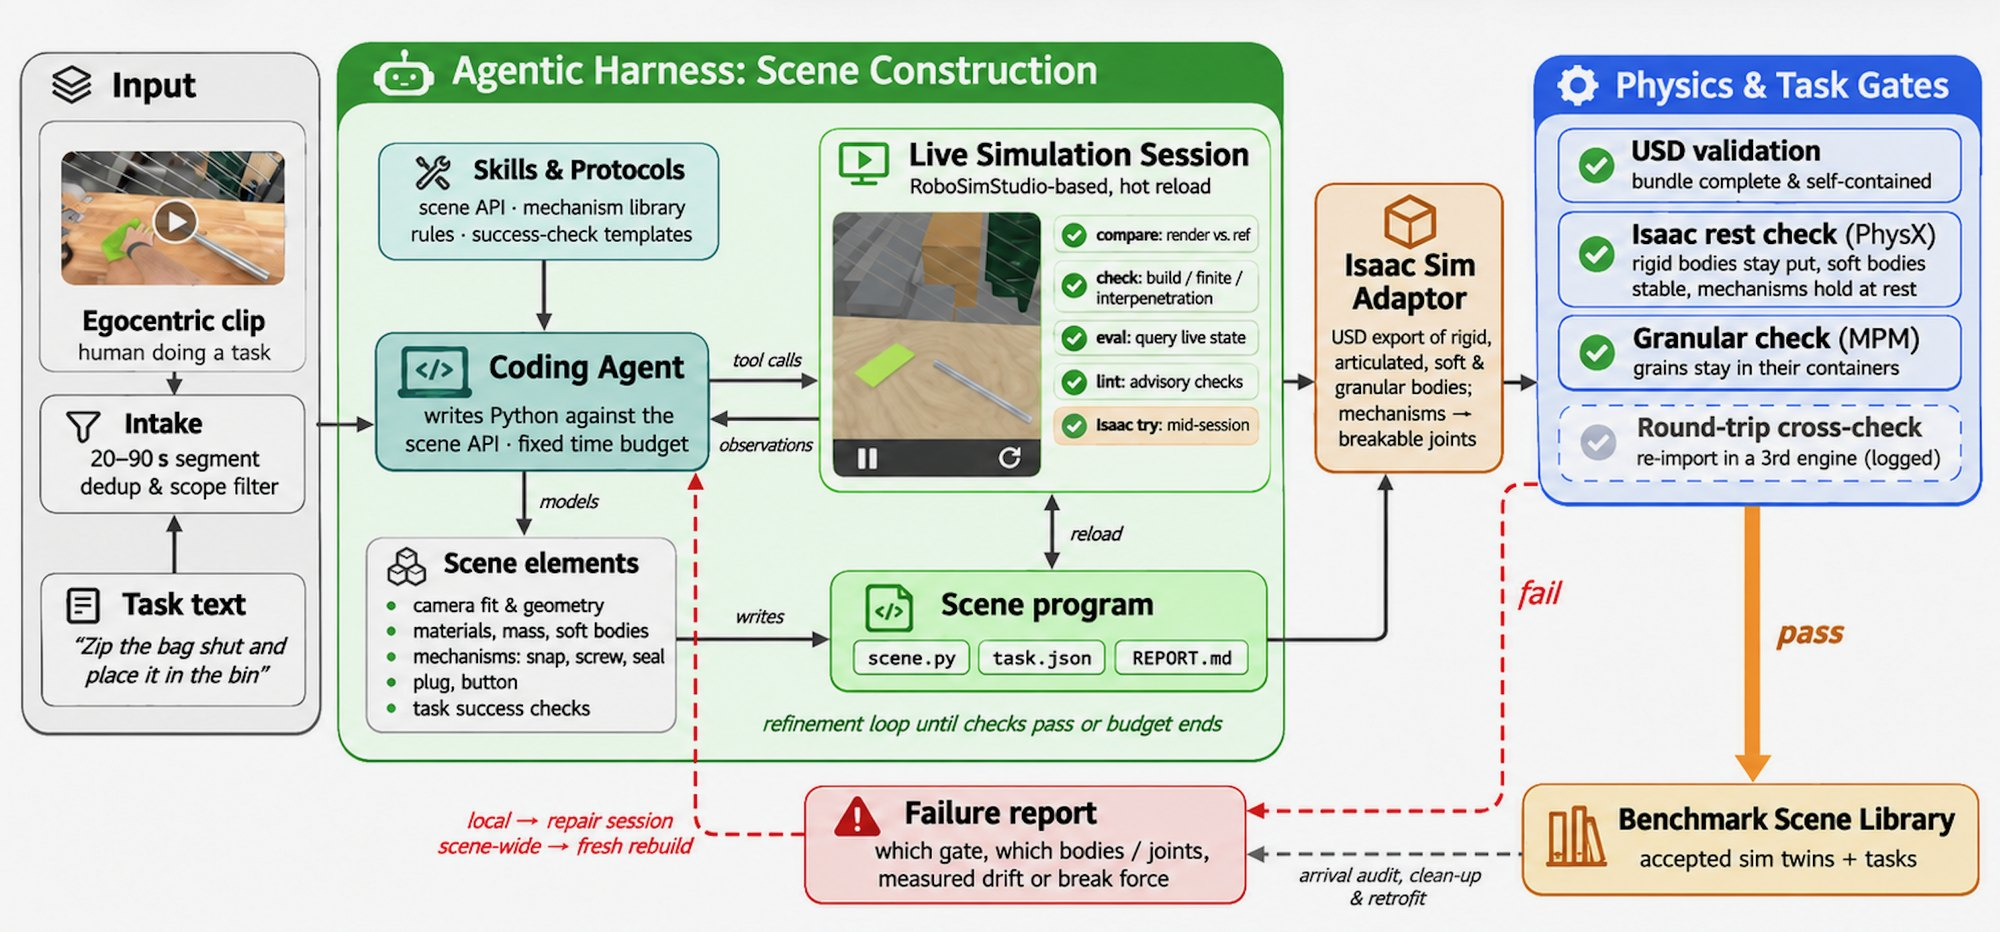
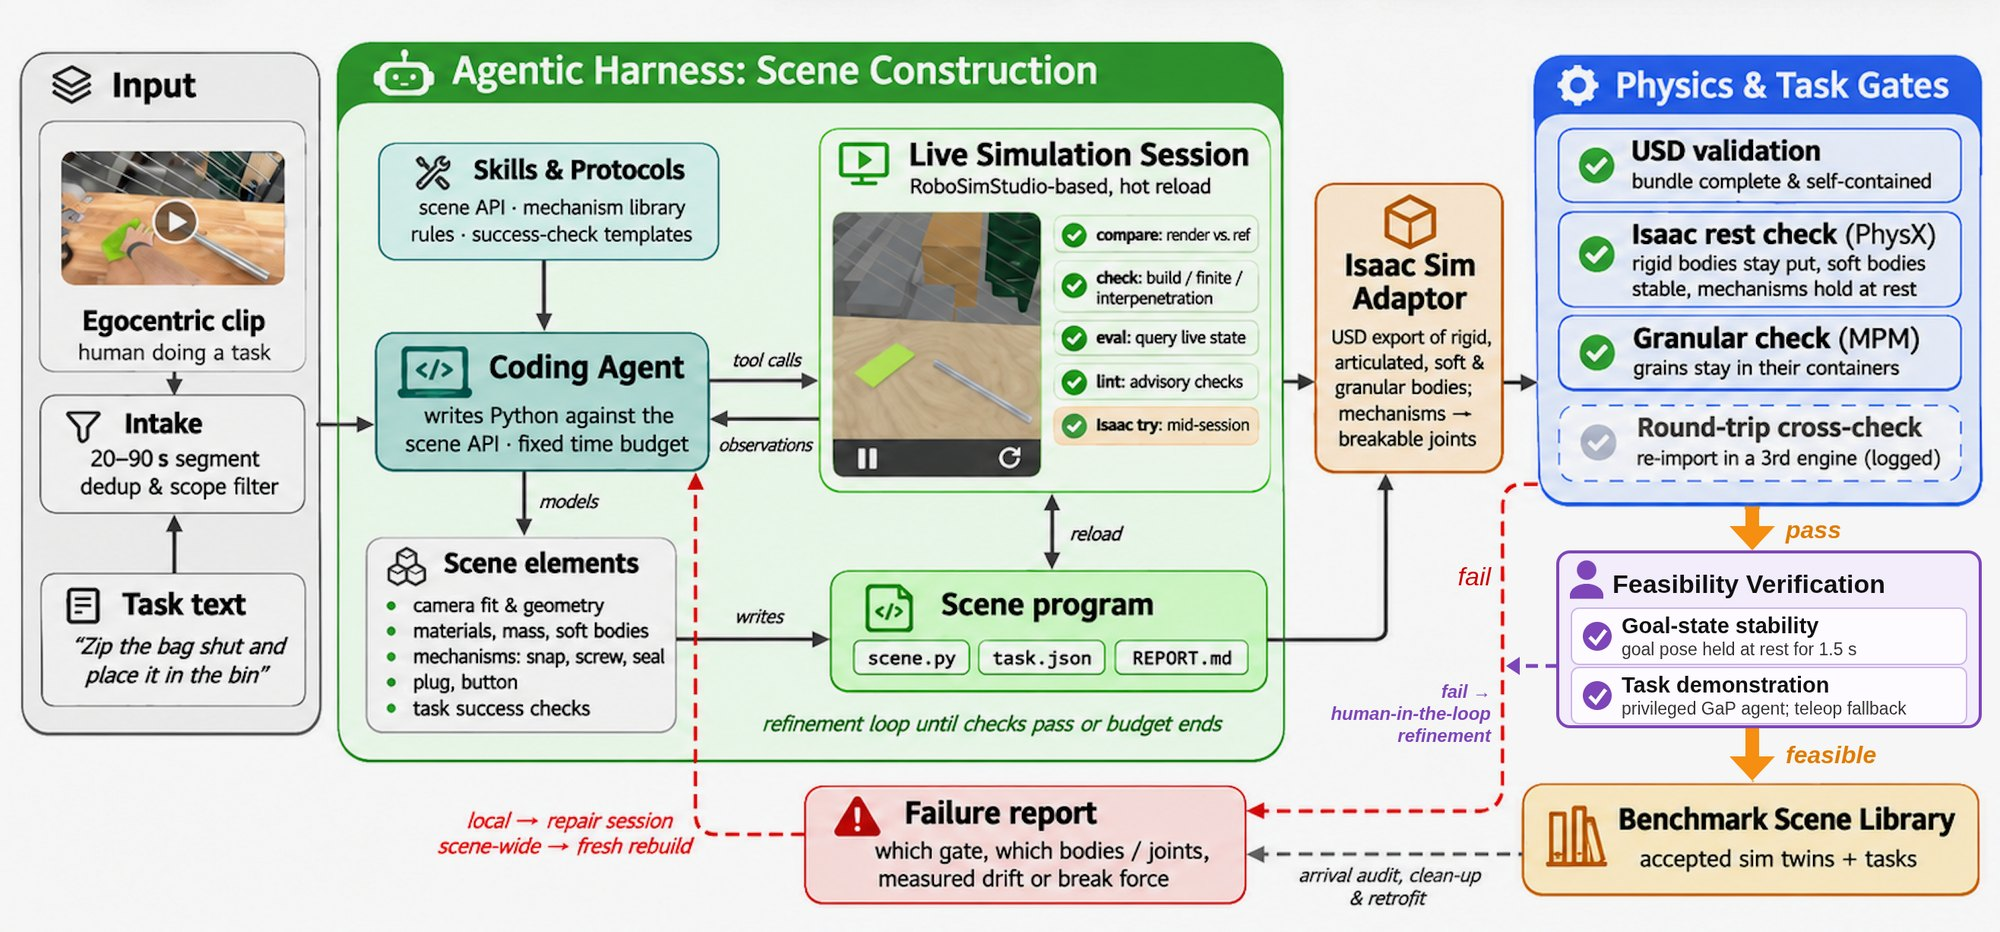
Update GenBench-∞ page to the revised paper: feasibility verification, failure modes

Changed region(s): [[0.744, 0.5601, 0.992, 0.8401], [0.651, 0.7157, 0.744, 0.809], [0.713, 0.5912, 0.744, 0.6223]]

diff --git a/genbench/index.html b/genbench/index.html
@@ -187,11 +187,11 @@
   <div class="wrap wide">
     <figure>
       <img src="static/img/fig2_pipeline.jpg" alt="Agentic simulation construction pipeline" width="2000" height="932" loading="lazy">
-      <figcaption>A coding agent turns an egocentric clip and its task text into a scene program, refining it in a live simulation session against renders of the clip and physics checks. The scene is exported to Isaac Sim through our adaptor and must pass physics and task-readiness gates in that independent engine. Failures return to the agent as a written report, which triggers a targeted repair or a fresh rebuild.</figcaption>
+      <figcaption>A coding agent turns an egocentric clip and its task text into a scene program, refining it in a live simulation session against renders of the clip and physics checks. The scene is exported to Isaac Sim through our adaptor and must pass physics and task-readiness gates there; failures return to the agent as a written report, which triggers a targeted repair or a fresh rebuild. Scenes that pass then undergo feasibility verification: the goal state must stay stable at rest, and task completion must be demonstrated by a privileged GaP agent or, failing that, by teleoperation. Scenes that fail are refined by the agent with a human in the loop before entering the benchmark.</figcaption>
     </figure>
   </div>
   <div class="wrap">
-    <div class="cards3">
+    <div class="cards2">
       <div class="card">
         <h3>Scenes as grounded programs</h3>
         <p>Each 20&ndash;90&nbsp;s clip becomes a <code>scene.py</code> plus a task file of success conditions. The agent works in a live session that reloads on every save, compares renders from a camera fitted to the clip against the video, and steps the physics to catch instability, interpenetration and drift.</p>
@@ -201,14 +201,18 @@
         <p>Mechanism primitives (snaps, seated screws, zippers, plugs, buttons) each carry a break force and a state check. Three rules: textures carry only an object's own print, at least one success condition is false as built, and every departure from the clip is written into a report.</p>
       </div>
       <div class="card">
-        <h3>Acceptance independent of the builder</h3>
-        <p>A scene counts only if it holds in an engine it was not built in. In Isaac Sim, rigid bodies must stay within a few millimetres at rest, soft bodies must neither fall through nor fly apart, every mechanism must hold at three times its load, and granular material (MPM) must stay in its container.</p>
+        <h3>Physical acceptance in Isaac Sim</h3>
+        <p>The adaptor exports each scene as a self-contained USD bundle, keeping each deformable's material and turning mechanisms into breakable joints. At rest for 1.5&nbsp;s, rigid bodies must stay within a few millimetres, soft bodies must neither fall through nor fly apart, every mechanism must hold at three times its load, and granular material (MPM) must stay in its container.</p>
+      </div>
+      <div class="card">
+        <h3>Feasibility verification</h3>
+        <p>Every scene must be shown to be solvable. The task objects are placed in their goal state to check reachability and held at rest for 1.5&nbsp;s to check stability; then a privileged agent with full state information uses GaP to complete the task, with teleoperation as the fallback. Scenes that fail either check are refined with a human in the loop and tested again.</p>
       </div>
     </div>
     <div class="kpis">
       <div><b>94.1%</b><span>of attempted scenes accepted</span></div>
       <div><b>65 min</b><span>median build time per scene</span></div>
-      <div><b>~1.3</b><span>GPU-slot hours per scene</span></div>
+      <div><b>~1.3</b><span>GPU-slot hours per scene (vGPU-32GB)</span></div>
       <div><b>23 / 24</b><span>random scenes pass again when re-exported on another machine</span></div>
     </div>
   </div>
@@ -254,7 +258,7 @@
             <tr><td>Long (295)</td><td>0 (0.0%)</td><td>0.5</td><td>0 (0.0%)</td><td>1.4</td></tr>
           </tbody>
         </table>
-        <p class="note">Short, medium and long tasks name 1&ndash;2, 3&ndash;4 and 5+ sub-goals. Both models succeed on 26 scenes, only Astra on 57, only Dream-1 on 6, neither on 911. On the 26 shared successes, Astra averages 7.5&nbsp;min and $2.28 of API cost per task; Dream-1 averages 5.1&nbsp;min and $0.06, 38&times; cheaper.</p>
+        <p class="note">Short, medium and long tasks name 1&ndash;2, 3&ndash;4 and 5+ sub-goals. Both models succeed on 26 scenes, only Astra on 57, only Dream-1 on 6, neither on 911. On the 26 shared successes, Astra averages 8.6&nbsp;min and $2.28 of API cost per task; Dream-1 averages 3.7&nbsp;min and $0.06, 38&times; cheaper.</p>
       </div>
       <div class="chart skill">
         <h4>Scenes completed by skill <small>(% of scenes with that skill)</small></h4>
@@ -273,6 +277,34 @@
         </div>
       </div>
     </div>
+
+    <h3 class="sub">How policies fail</h3>
+    <p class="intro">Failures usually happen at the first step of a task. Every counted trial that did not succeed is assigned one primary failure mode from the voting reviewers' written reasons and the frames they saw. Dream-1 mostly never makes useful contact with the task objects; GPT-6 Astra's failures spread across knocking objects over, leaving mechanisms unoperated, stopping partway and not releasing.</p>
+    <div class="two fail">
+      <div class="chart skill">
+        <h4>Failure modes <small>(% of each model's failed trials)</small></h4>
+        <div class="legend"><span class="d">Dream-1 (968 failed)</span><span class="a">GPT-6 Astra (917 failed)</span></div>
+        <div class="pairs" style="--scale:70">
+          <div class="pair"><span>No contact</span><div><i class="d" style="--p:66.4"></i><b>66%</b></div><div><i class="a" style="--p:35.0"></i><b>35%</b></div></div>
+          <div class="pair"><span>Wrong final pose</span><div><i class="d" style="--p:11.5"></i><b>11%</b></div><div><i class="a" style="--p:12.1"></i><b>12%</b></div></div>
+          <div class="pair"><span>Knocked over</span><div><i class="d" style="--p:5.0"></i><b>5%</b></div><div><i class="a" style="--p:15.0"></i><b>15%</b></div></div>
+          <div class="pair"><span>Mechanism not operated</span><div><i class="d" style="--p:6.3"></i><b>6%</b></div><div><i class="a" style="--p:14.7"></i><b>15%</b></div></div>
+          <div class="pair"><span>Stopped partway</span><div><i class="d" style="--p:3.9"></i><b>4%</b></div><div><i class="a" style="--p:11.0"></i><b>11%</b></div></div>
+          <div class="pair"><span>Not released</span><div><i class="d" style="--p:0.8"></i><b>1%</b></div><div><i class="a" style="--p:7.7"></i><b>8%</b></div></div>
+          <div class="pair"><span>Declined instruction</span><div><i class="d" style="--p:2.9"></i><b>3%</b></div><div><i class="a" style="--p:0"></i><b>0%</b></div></div>
+          <div class="pair"><span>Scorer undecided</span><div><i class="d" style="--p:3.2"></i><b>3%</b></div><div><i class="a" style="--p:4.3"></i><b>4%</b></div></div>
+        </div>
+      </div>
+      <div class="failgrid">
+        <div class="fx"><div class="fp"><img src="static/img/fail/a_start.jpg" alt="" loading="lazy"><img src="static/img/fail/a_final.jpg" alt="" loading="lazy"></div><p><b>No contact.</b> Dream-1: pack pencils into cartons</p></div>
+        <div class="fx"><div class="fp"><img src="static/img/fail/b_start.jpg" alt="" loading="lazy"><img src="static/img/fail/b_final.jpg" alt="" loading="lazy"></div><p><b>Wrong final pose.</b> GPT-6 Astra: bottle upright in bowl</p></div>
+        <div class="fx"><div class="fp"><img src="static/img/fail/c_start.jpg" alt="" loading="lazy"><img src="static/img/fail/c_final.jpg" alt="" loading="lazy"></div><p><b>Not released.</b> GPT-6 Astra: plug adapter into outlet</p></div>
+        <div class="fx"><div class="fp"><img src="static/img/fail/d_start.jpg" alt="" loading="lazy"><img src="static/img/fail/d_final.jpg" alt="" loading="lazy"></div><p><b>Mechanism not operated.</b> GPT-6 Astra: tighten cover bolts</p></div>
+        <div class="fx"><div class="fp"><img src="static/img/fail/e_start.jpg" alt="" loading="lazy"><img src="static/img/fail/e_final.jpg" alt="" loading="lazy"></div><p><b>Knocked over.</b> Dream-1: disassemble tray table</p></div>
+        <div class="fx"><div class="fp"><img src="static/img/fail/f_start.jpg" alt="" loading="lazy"><img src="static/img/fail/f_final.jpg" alt="" loading="lazy"></div><p><b>Stopped partway.</b> Dream-1: six flange parts into bin</p></div>
+      </div>
+    </div>
+    <p class="note">Each example shows the first and final frames the voting reviewers saw for one trial. Gemini Argon 4 assigns the mode; one GPT-6 Astra failure (a violated hand-use constraint) fits none of the modes and is omitted.</p>
 
     <h3 class="sub">50-scene benchmark: six systems, four embodiments</h3>
     <p class="intro">Tasks simplify the source activity while keeping its manipulation requirements; an activity that transfers six eggs, for example, becomes transferring one egg from the sink into the tray. LLM systems act through the Nomad interface; Dream-1, &pi;<sub>0.5</sub> and MolmoAct2 use their own adapters. A completion counts only when simulator predicates pass and visual review confirms the goal.</p>
@@ -348,7 +380,7 @@
           <div><b>0.81</b><span>Pearson <i>r</i>, binary success, both policies pooled</span></div>
           <div><b>0.74</b><span>Pearson <i>r</i>, milestone completion, pooled</span></div>
         </div>
-        <p class="body">Simulation preserves Dream-1's higher aggregate score and tracks it closely (64.7% vs. 69.3%), but understates GPT-6 Astra's (22.0% vs. 49.3%) and does not reproduce per-task scores uniformly. Camera matching is approximate and contact physics remain unqualified for wiping, cabinet manipulation and packing, so these five-task comparisons are descriptive.</p>
+        <p class="body">Simulation preserves Dream-1's higher aggregate score and tracks it closely (64.7% vs. 69.3%), but understates GPT-6 Astra's (22.0% vs. 49.3%) and does not reproduce per-task scores uniformly. Milestones are judged by the operator for real trials and by the agentic voters for simulated ones. These five-task comparisons are descriptive: differing conditions and contact and controller limitations preclude attributing the gaps solely to the policies.</p>
       </div>
       <figure class="tight">
         <img src="static/img/fig5_cabinet.jpg" alt="Cabinet manipulation in the real world and in simulation" width="1100" height="1208" loading="lazy">

diff --git a/genbench/static/style.css b/genbench/static/style.css
@@ -130,6 +130,16 @@ h4 small { font-weight: 500; color: var(--mute); }
 .cards3 { display: grid; grid-template-columns: repeat(3, 1fr); gap: 18px; margin-top: 32px; }
 .card { background: #fff; border: 1px solid var(--line); border-radius: 14px; padding: 20px 20px 16px; }
 .card p { margin: 0; font-size: 14.5px; color: var(--ink2); }
+.cards2 { display: grid; grid-template-columns: repeat(2, 1fr); gap: 18px; margin-top: 32px; }
+.cards2 > * { min-width: 0; }
+
+.failgrid { display: grid; grid-template-columns: repeat(2, 1fr); gap: 12px; }
+.fx { background: #fff; border: 1px solid var(--line); border-radius: 10px; overflow: hidden; }
+.fx .fp { display: grid; grid-template-columns: 1fr 1fr; gap: 2px; background: var(--line); }
+.fx .fp img { width: 100%; aspect-ratio: 4 / 3; object-fit: cover; }
+.fx p { margin: 0; padding: 6px 9px 8px; font-size: 12px; color: var(--ink2); line-height: 1.4; }
+.fx p b { color: var(--ink); }
+.two.fail { grid-template-columns: 1fr 1.15fr; }
 .card .num { font-family: "JetBrains Mono", monospace; font-weight: 600; font-size: 13px; margin-bottom: 8px; }
 .card.c1 .num { color: var(--orange); }
 .card.c2 .num { color: var(--purple); }
@@ -170,7 +180,9 @@ section.alt .kpis > div { background: #fff; }
 .pairs .pair:last-child { border-bottom: 0; }
 .pairs .pair > span { color: var(--ink2); grid-row: span 2; }
 .pairs .pair > div { display: flex; align-items: center; gap: 6px; grid-column: 2; }
-.pairs .pair i { display: block; height: 10px; border-radius: 2px; width: calc(var(--p) / 12 * 100%); min-width: 3px; }
+.pairs .pair i { display: block; height: 10px; border-radius: 2px; width: calc(var(--p) / var(--scale, 12) * 100%); min-width: 3px; }
+.pairs .pair > div { flex-wrap: nowrap; }
+.pairs .pair > div i { flex: none; max-width: calc(100% - 40px); }
 .pairs .pair i.d { background: var(--blue); }
 .pairs .pair i.a { background: var(--orange); }
 .pairs .pair b { font-size: 12px; font-weight: 600; }
@@ -233,7 +245,7 @@ footer { padding: 28px 0 40px; color: var(--mute); font-size: 13px; text-align: 
   .grid6 { grid-template-columns: repeat(3, 1fr); }
   .grid6 > div:nth-child(4) { border-left: 0; }
   .grid6 > div:nth-child(n + 4) { border-top: 1px solid var(--line); }
-  .cards3, .charts, .two { grid-template-columns: 1fr; }
+  .cards3, .cards2, .charts, .two, .two.fail { grid-template-columns: 1fr; }
   .kpis { grid-template-columns: repeat(2, 1fr); }
   .grid { grid-template-columns: repeat(2, 1fr); }
   .topnav .links { display: none; }
